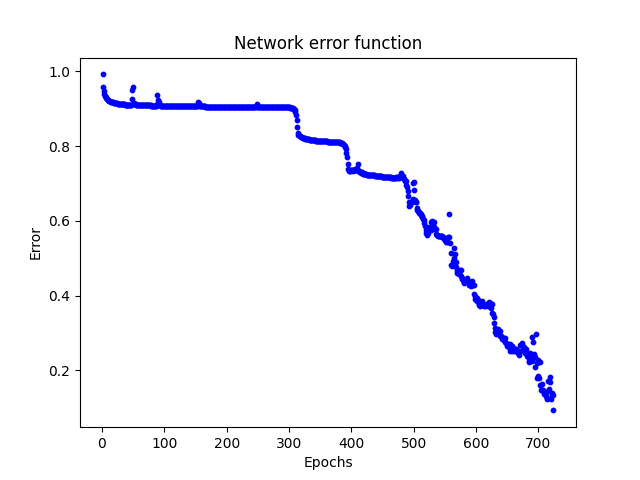
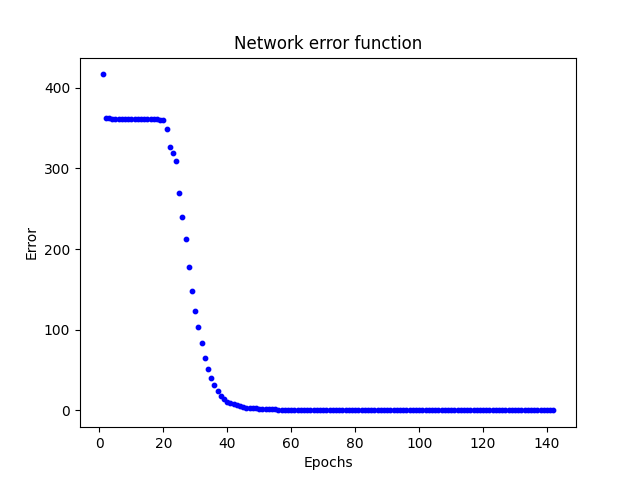
update

diff --git a/MultiLayer/main.py b/MultiLayer/main.py
@@ -1,64 +1,84 @@
+import tensorflow as tf
 import numpy as np
 import matplotlib.pyplot as plt
-from PIL import Image
 
 from network import NeuralNetwork
 
 
 def main():
-    """
-    Basic model usage on 18x18 images from folder data.
-    """
-    images = []
-    for i in range(10):
-        # Load 18x18 image and covert it to grayscale
-        image = Image.open(f"MultiLayer/data/{i}.bmp").convert("L")
-        image = np.array(image)
-        # Normalize
-        image = image
-        # Flatten the matrix intro vector
-        image = image.flatten()
+    # Mnist dataset of 28x28 images with handwritten digits and labels
+    mnist = tf.keras.datasets.mnist
+    # X: pixel image data, Y: digit labels
+    # 60 000 of training data nad 10 000 of testing data
+    (x_train, y_train), (x_test, y_test) = mnist.load_data()
 
-        images.append(image)
+    ### INPUT PREPROCESSING
 
-    # 10x324
-    images = np.array(images)
+    # Normalizing (from 0-255 to 0-1)
+    x_train = tf.keras.utils.normalize(x_train, axis=1)
 
-    # Matrix with 1 one main diagonal
-    labels = np.eye(10)
+    # Reshaping from (60000, 28, 28) to (60000, 784) = flattening the images
+    x_train = x_train.reshape(len(x_train), 784)
 
-    neurons_num = [40, 20]
+    # Each row represents one digit (corresponds to one output neuron activation)
+    digits_labels = -np.ones((10, 10))
+    np.fill_diagonal(digits_labels, 1)
+    # y_train contains only values => replacing these values with matrixes resulting in (60000, 10)
+    y_train_mat = np.array([digits_labels[x] for x in y_train])
 
-    network = NeuralNetwork(input_num=324, output_num=10, hidden_num=2, hidden_neurons=neurons_num)
-    network.train(data=images, labels=labels, learning_rate=0.1, momentum=0.2, acceptable_error=0.1, graph=True)
+    # Slicing the training data to 1000 samples
+    input_slice = x_train[0:1000]
+    labels_slice = y_train_mat[0:1000]
+
+    ### NEURAL NETWORK
+
+    network = NeuralNetwork(input_num=784, output_num=10, hidden_num=2, hidden_neurons=[40, 20])
+    # Training
+    network.train(data=input_slice, labels=labels_slice, learning_rate=0.01, momentum=0.5, acceptable_error=0.1, graph=True)
 
     ### TESTING
-    # Simple testing without using test method from the model
-    noisy_images = []
-    for image in images:
-        noise = np.random.uniform(-0.7, 0.7, image.shape)
-        # Make sure the values are in range 0-1
-        noisy_images.append(np.clip(image + noise, 0, 1))
 
-    noisy_images = np.array(noisy_images)
+    # Taking testing data from training dataset (because it is already flatten and whole dataset isn't used for training)
+    test_data_slice = x_train[2000:2100]
+    # Labels taking from original y_train (because we need only the value not activation of each neuron)
+    test_labels_slice = y_train[2000:2100]
 
-    for image in noisy_images:
-        prediction = network.predict(image[:, np.newaxis], "output")
-        predicted_value = np.argmax(prediction)
+    accuracy, samples, errors_count, errors = network.test(test_data_slice, test_labels_slice, "detailed")
+    print(f"Accuracy: {accuracy}\nNumber of samples: {samples}\nNumber of errors: {errors_count}")
 
-        plt.imshow(image.reshape(18,18), cmap="gray")
-        plt.axis("off")
-        plt.title("Input image")
-        plt.show()
+    # Plot frequency of errors
+    plt.bar(errors.keys(), errors.values())
+    plt.title("Frequency of the errors")
+    plt.xlabel("Value")
+    plt.ylabel("Errors count")
+    plt.xticks(list(errors.keys()))
+    plt.grid(True, axis="y")
+    plt.show()
 
-        print(f"Predicted value is {predicted_value} with probability {prediction[predicted_value]}")
-        
-        plt.bar([0, 1, 2, 3, 4, 5, 6, 7, 8, 9], prediction.flatten())
-        plt.title("Output predictions")
-        plt.xlabel("Value")
-        plt.ylabel("Probability")
-        plt.xticks([0, 1, 2, 3, 4, 5, 6, 7, 8, 9])
-        plt.show()
+
+    ### PREDICTION OF SINGLE IMAGE
+
+    image = x_train[3333]
+    # Pass the image as column vector
+    predictions = network.predict(image[:, np.newaxis], "output")
+    predicted_value = np.argmax(predictions)
+
+    print(f"Predicted value is {predicted_value} with probability {predictions[predicted_value]}")
+
+    plt.subplot(1, 2, 1)
+    # Reshape image back into matrix
+    plt.imshow(image.reshape(28,28), cmap="gray")
+    plt.axis("off")
+    plt.title("Input image")
+
+    plt.subplot(1, 2, 2)
+    plt.bar([0, 1, 2, 3, 4, 5, 6, 7, 8, 9], predictions.flatten())
+    plt.title("Output predictions")
+    plt.xlabel("Value")
+    plt.ylabel("Probability")
+
+    plt.tight_layout()
+    plt.show()
 
 
 if __name__ == "__main__":

diff --git a/MultiLayer/README.md b/MultiLayer/README.md
@@ -1,16 +1,12 @@
 # Multi-Layer Network
 Multi-layer neural network with back propagation to recognize a single digit from an image.
 
-***Note: this page is about the model and its usage in "main.py" file.***
-
-The "handwritten.py" script contains example of usage neural network model which is described later along with Mnist handwritten digits dataset.
-
 ## Problem description
-Digit recognition from an image.
+Single handwritten digit recognition from an image.
 
-This is a classical classification problem. We have 10 training images which are 18x18 pixels. On each image is one number and we want to train the network to recognize these numbers.
+We have 28x28 pixels images of handwritten digits. This is a classification problem so each number represents one class. The network should classify the image to its value (number).
 
-This is a very basic because the training set contains only 10 samples and testing is done with the same noisy images. Goal of this project is to look at error back propagation.
+Images were taken from Mnist handwritten digits dataset.
 
 ## Network function
 Multi-layer network we can generally split into tree parts.
@@ -28,12 +24,14 @@ Network with back propagation separates the classes with lines as boundaries (th
 
 Property of this type of network is that every input is somehow classified. This means than unknown or even a wrong input is always assigned to some output. Wrong input is some input for which the network isn't trained (for example network is trained to recognize digits and we input a letter).
 
-<img src="README_img/separation.png" alt="Illustration of a multi-layer network separation" title="Illustration of a multi-layer layer network separation" width=30%>
+<img src="README_img/separation.png" alt="Illustration of a possible multi-layer network separation" title="Illustration of a possible multi-layer layer network separation" width=30%>
 
-*Illustration of a multi-layer layer network separation*
+*Illustration of a possible multi-layer layer network separation*
 
 ## Network training
-Training in this case was with back propagation method with parameters adjusting after each training sample.
+Training in this case was with back propagation method with parameters adjusting after each training sample. This approach isn't optimal for a dataset of this size (60 000 training samples). So in the example not whole dataset was used.
+
+Possible solution could be to process the input data in baches and adjust the parameters after each bach not sample.
 
 ### Back propagation
 Error back propagation is an iterative gradient algorithm that minimizes the square of error function. Practically that means that error propagating from output back to input. This backwards propagation helps adjust weights and biases. Overall goal is to find the minimum of networks loss (error) function. This method is used with supervised learning (because we need to be able to calculate error).
@@ -103,7 +101,7 @@ $b_{i+1} = b_i + rate * \delta * input + momentum * (b_i - b_{i-1})$
 ## Implementation
 
 ### Topology
-Because we have 18x18 input images the input layer contains 324 (18 * 18) input values. Then there are 2 hidden layers. First one has 40 neurons and second has 20. Output layer has 10 neurons (for digits 0-10).
+Because we have 28x28 input images the input layer contains 784 (28 * 28) input values. Then there are 2 hidden layers. First one has 40 neurons and second has 20. Output layer has 10 neurons (for digits 0-10).
 
 ### Activation function
 As activation function hyperbolic tangent (tanh) function was used.
@@ -116,34 +114,29 @@ $f(x) = \frac{1 - e^{-x}}{1 + e^{-x}}$
 
 $f(x)' = 1 - f(x)^2$
 
-### Functionality
+### Model functionality
 Weights and biases are randomly generated for each network object.
 
-When training training data, training labels, learning rate and acceptable error must be provided. Optionally momentum, epochs and if a network error development graph should be shown. Training will end either when the network error is lower than the acceptable error or when training process reaches max iterations (set by epochs parameter.)
+When training: training data, training labels, learning rate and acceptable error must be provided. Optionally momentum, epochs and if a network error development graph should be shown. Training will end either when the network error is lower than the acceptable error or when training process reaches max iterations (set by epochs parameter.)
 
-<img src="README_img/input.png" alt="Testing input" title="Testing input" width=50%>
+After training network testing can be done. For testing we need to provide testing data with testing labels (labels as output value not matrix of neurons activations). Result of the testing is accuracy optionally with number of training samples, number of errors and dictionary with errors frequencies.
 
-*Testing input*
 
-<img src="README_img/result.png" alt="Result to testing input" title="Result to testing input" width=50%>
+### Training and Testing
+Training was done with 1000 samples for acceptable error 0.1 (10%). For training 100 samples was used. When testing average accuracy was about 20%.
 
-*Result to testing input*
+<img src="README_img/error_freq.png" title="Errors frequencies" alt="Error frequencies" width=50%>
 
-*Note that testing was done with noisy training images*
+*Error frequencies for 100 testing samples (accuracy 0.86)*
+
+<img src="README_img/single_output.png" title="Single image prediction" alt="Single image prediction" width=50%>
+
+*Single image prediction (network assigned value 2 with probability 0.996)*
 
 ## Notes
 - When i was using sigmoid function as an activation function the network didn't converge.
 - Momentum really speed up the training process.
 - Learning rate, momentum, initial weight and initial biases - each of these has noticeable influence on network convergence.
 - The biggest challenge of this project were mathematics behind the back propagation and tracking all the values in matrixes. To look for right dimensions and right operators.
-- Training with huge amount of training samples is really slow (for these cases training with batches could be better)
-
-### Results from handwritten.py example
-
-<img src="README_img/error_fnc_handwritten.png" alt="Network error function" title="Network error function" width=50%>
-
-*Network error function*
-
-<img src="README_img/errors_freq.png" alt="Network output for 100 testing samples" title="Network output for 100 testing samples" width=50%>
-
-*Network output for 100 testing samples*
+- Training with huge amount of training samples is really slow (for these cases training with batches could be better).
+- When using tanh function labels -1/1 are more optional than 0/1.
